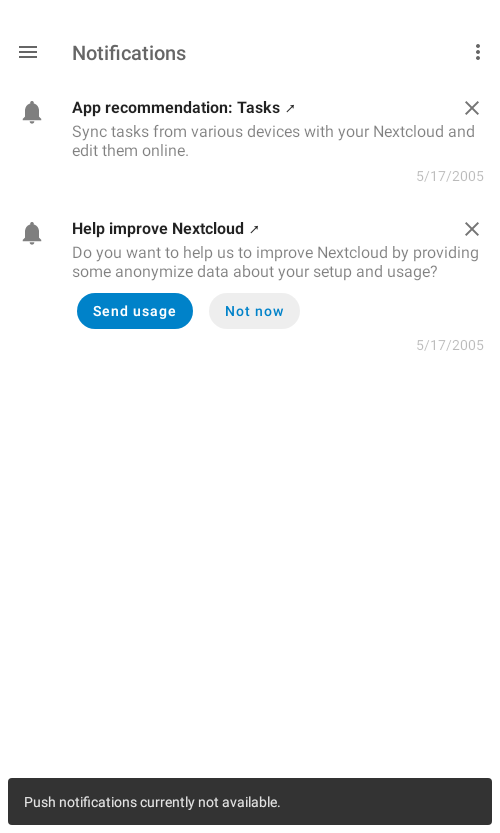
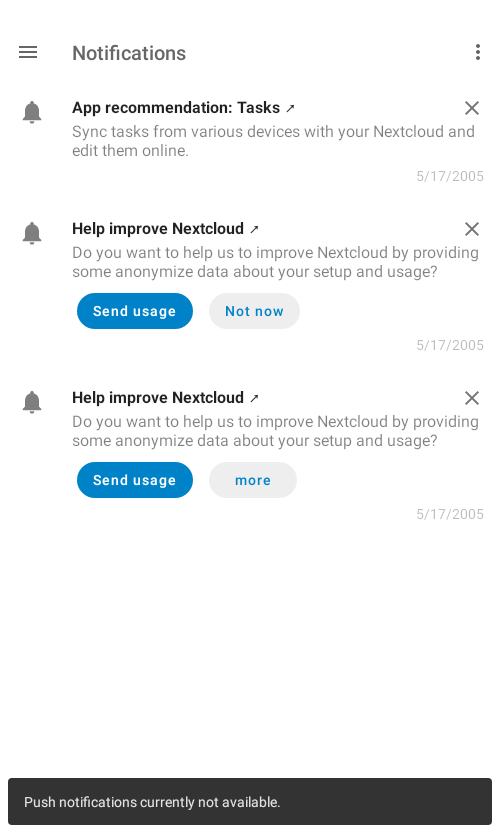
Notification buttons enhancement  (#8932)
* Show buttons:
two or primary and more option menu

* NotificationsActivityIT: fix linting issues

* Fix kotlin syntax

diff --git a/src/androidTest/java/com/owncloud/android/ui/activity/NotificationsActivityIT.kt b/src/androidTest/java/com/owncloud/android/ui/activity/NotificationsActivityIT.kt
@@ -87,9 +87,10 @@ class NotificationsActivityIT : AbstractIT() {
             )
         )
 
-        val actions = ArrayList<Action>()
-        actions.add(Action("Send usage", "link", "url", true))
-        actions.add(Action("Not now", "link", "url", false))
+        val actions = ArrayList<Action>().apply {
+            add(Action("Send usage", "link", "url", true))
+            add(Action("Not now", "link", "url", false))
+        }
 
         notifications.add(
             Notification(
@@ -109,6 +110,34 @@ class NotificationsActivityIT : AbstractIT() {
                 "link",
                 "icon",
                 actions
+            )
+        )
+
+        val moreAction = ArrayList<Action>().apply {
+            add(Action("Send usage", "link", "url", true))
+            add(Action("Not now", "link", "url", false))
+            add(Action("third action", "link", "url", false))
+            add(Action("Delay", "link", "url", false))
+        }
+
+        notifications.add(
+            Notification(
+                2,
+                "files",
+                "user",
+                date.time,
+                "objectType",
+                "objectId",
+                "Help improve Nextcloud",
+                "SubjectRich",
+                HashMap<String, RichObject>(),
+                "Do you want to help us to improve Nextcloud by providing some anonymize data about your setup and " +
+                    "usage?",
+                "MessageRich",
+                HashMap<String, RichObject>(),
+                "link",
+                "icon",
+                moreAction
             )
         )
 

diff --git a/src/main/java/com/owncloud/android/ui/adapter/NotificationListAdapter.java b/src/main/java/com/owncloud/android/ui/adapter/NotificationListAdapter.java
@@ -67,6 +67,7 @@ import java.util.ArrayList;
 import java.util.List;
 
 import androidx.annotation.NonNull;
+import androidx.appcompat.widget.PopupMenu;
 import androidx.recyclerview.widget.RecyclerView;
 
 /**
@@ -174,46 +175,133 @@ public class NotificationListAdapter extends RecyclerView.Adapter<NotificationLi
             0
                          );
 
-        for (Action action : notification.getActions()) {
-            button = new MaterialButton(notificationsActivity);
+        int primaryColor = ThemeColorUtils.primaryColor(notificationsActivity);
+        
+        List<Action> overflowActions = new ArrayList<>();
+        
+        if (notification.getActions().size() > 2) {
+            for (Action action: notification.getActions()) {
+                if (action.primary) {
+                    button = new MaterialButton(notificationsActivity);
+                    button.setAllCaps(false);
 
-            int primaryColor = ThemeColorUtils.primaryColor(notificationsActivity);
+                    button.setText(action.label);
+                    button.setCornerRadiusResource(R.dimen.button_corner_radius);
 
-            if (action.primary) {
-                ThemeButtonUtils.colorPrimaryButton(button, notificationsActivity);
-            } else {
-                button.setBackgroundColor(resources.getColor(R.color.grey_200));
-                button.setTextColor(primaryColor);
+                    button.setLayoutParams(params);
+                    button.setGravity(Gravity.CENTER);
+
+                    button.setOnClickListener(v -> {
+                        setButtonEnabled(holder, false);
+
+                        if (ACTION_TYPE_WEB.equals(action.type)) {
+                            Intent intent = new Intent(Intent.ACTION_VIEW);
+                            intent.setData(Uri.parse(action.link));
+
+                            notificationsActivity.startActivity(intent);
+                        } else {
+                            new NotificationExecuteActionTask(client,
+                                                              holder,
+                                                              notification,
+                                                              notificationsActivity)
+                                .execute(action);
+                        }
+                    });
+
+                    ThemeButtonUtils.colorPrimaryButton(button, notificationsActivity);
+                    holder.binding.buttons.addView(button);
+                } else {
+                    overflowActions.add(action);
+                }
             }
+            
+            // further actions
+            button = new MaterialButton(notificationsActivity);
+            button.setBackgroundColor(resources.getColor(R.color.grey_200));
+            button.setTextColor(primaryColor);
 
             button.setAllCaps(false);
 
-            button.setText(action.label);
+            button.setText(R.string.more);
             button.setCornerRadiusResource(R.dimen.button_corner_radius);
 
             button.setLayoutParams(params);
             button.setGravity(Gravity.CENTER);
 
+            MaterialButton finalButton = button;
             button.setOnClickListener(v -> {
-                setButtonEnabled(holder, false);
+                PopupMenu popup = new PopupMenu(notificationsActivity, finalButton);
 
-                if (ACTION_TYPE_WEB.equals(action.type)) {
-                    Intent intent = new Intent(Intent.ACTION_VIEW);
-                    intent.setData(Uri.parse(action.link));
+                for (Action action : overflowActions) {
+                    popup.getMenu().add(action.label).setOnMenuItemClickListener(item -> {
+                        setButtonEnabled(holder, false);
 
-                    notificationsActivity.startActivity(intent);
-                } else {
-                    new NotificationExecuteActionTask(client,
-                                                      holder,
-                                                      notification,
-                                                      notificationsActivity)
-                        .execute(action);
+                        if (ACTION_TYPE_WEB.equals(action.type)) {
+                            Intent intent = new Intent(Intent.ACTION_VIEW);
+                            intent.setData(Uri.parse(action.link));
+
+                            notificationsActivity.startActivity(intent);
+                        } else {
+                            new NotificationExecuteActionTask(client,
+                                                              holder,
+                                                              notification,
+                                                              notificationsActivity)
+                                .execute(action);
+                        }
+                        
+                        return true;
+                    });
                 }
+                
+                popup.show();
             });
 
             holder.binding.buttons.addView(button);
+        } else {
+            for (Action action : notification.getActions()) {
+                button = new MaterialButton(notificationsActivity);
+
+                if (action.primary) {
+                    ThemeButtonUtils.colorPrimaryButton(button, notificationsActivity);
+                } else {
+                    button.setBackgroundColor(resources.getColor(R.color.grey_200));
+                    button.setTextColor(primaryColor);
+                }
+
+                button.setAllCaps(false);
+
+                button.setText(action.label);
+                button.setCornerRadiusResource(R.dimen.button_corner_radius);
+
+                button.setLayoutParams(params);
+                button.setGravity(Gravity.CENTER);
+
+                button.setOnClickListener(v -> {
+                    setButtonEnabled(holder, false);
+
+                    if (ACTION_TYPE_WEB.equals(action.type)) {
+                        Intent intent = new Intent(Intent.ACTION_VIEW);
+                        intent.setData(Uri.parse(action.link));
+
+                        notificationsActivity.startActivity(intent);
+                    } else {
+                        new NotificationExecuteActionTask(client,
+                                                          holder,
+                                                          notification,
+                                                          notificationsActivity)
+                            .execute(action);
+                    }
+                });
+
+                holder.binding.buttons.addView(button);
+            }
         }
     }
+    
+    private void handleItemClick() {
+        
+    }
+    
 
     private SpannableStringBuilder makeSpecialPartsBold(Notification notification) {
         String text = notification.getSubjectRich();
